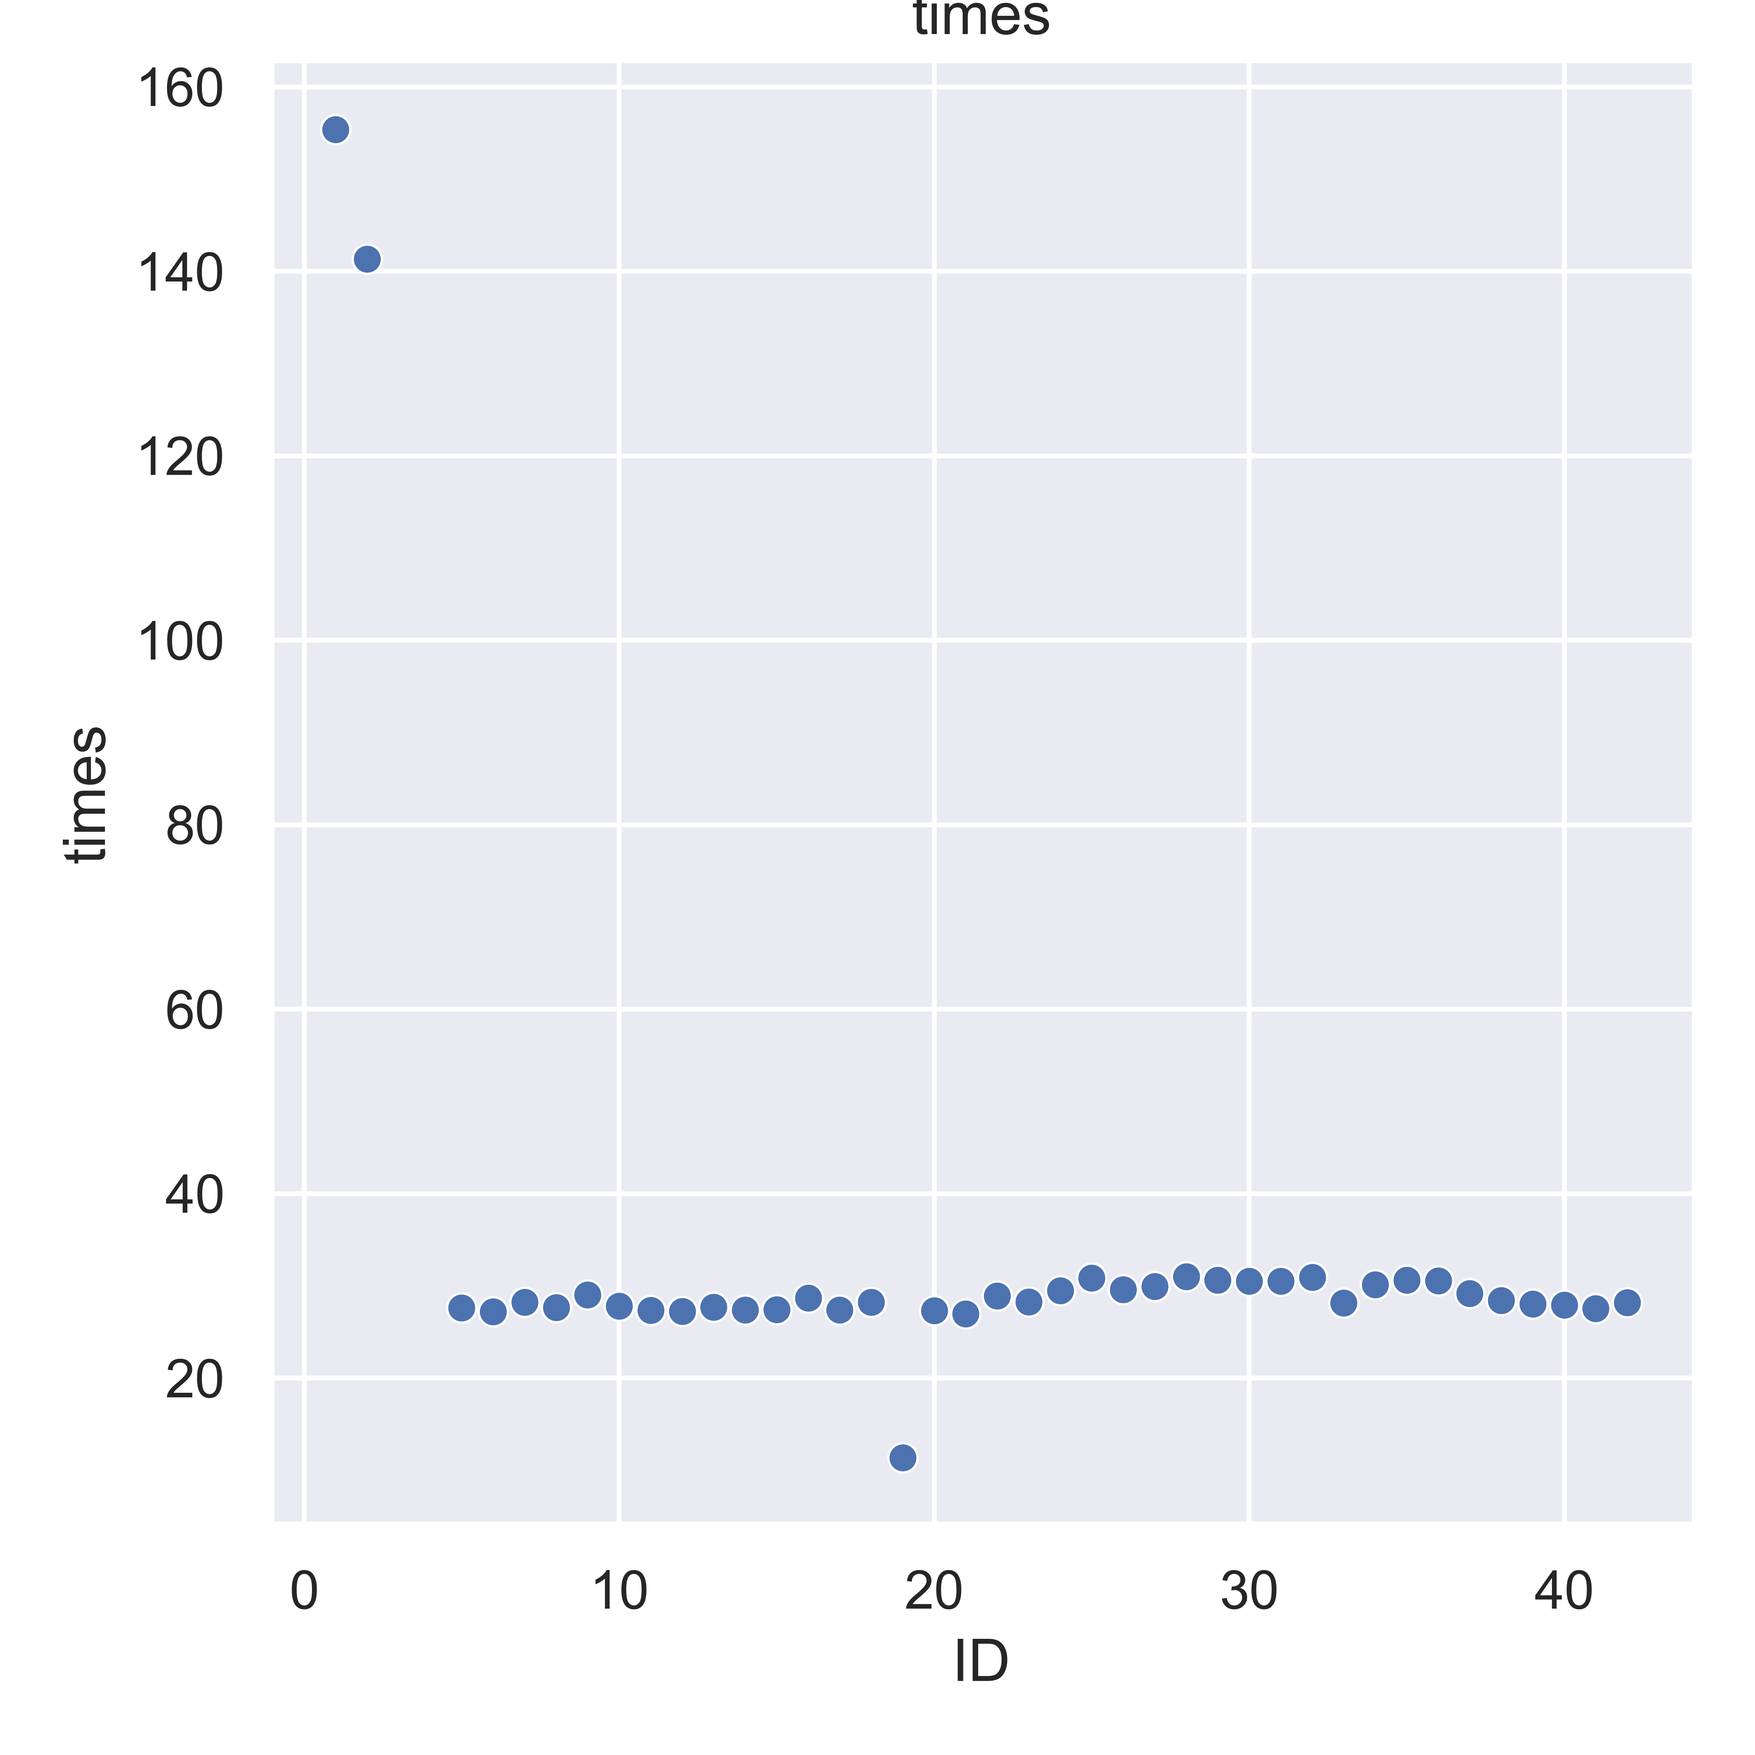
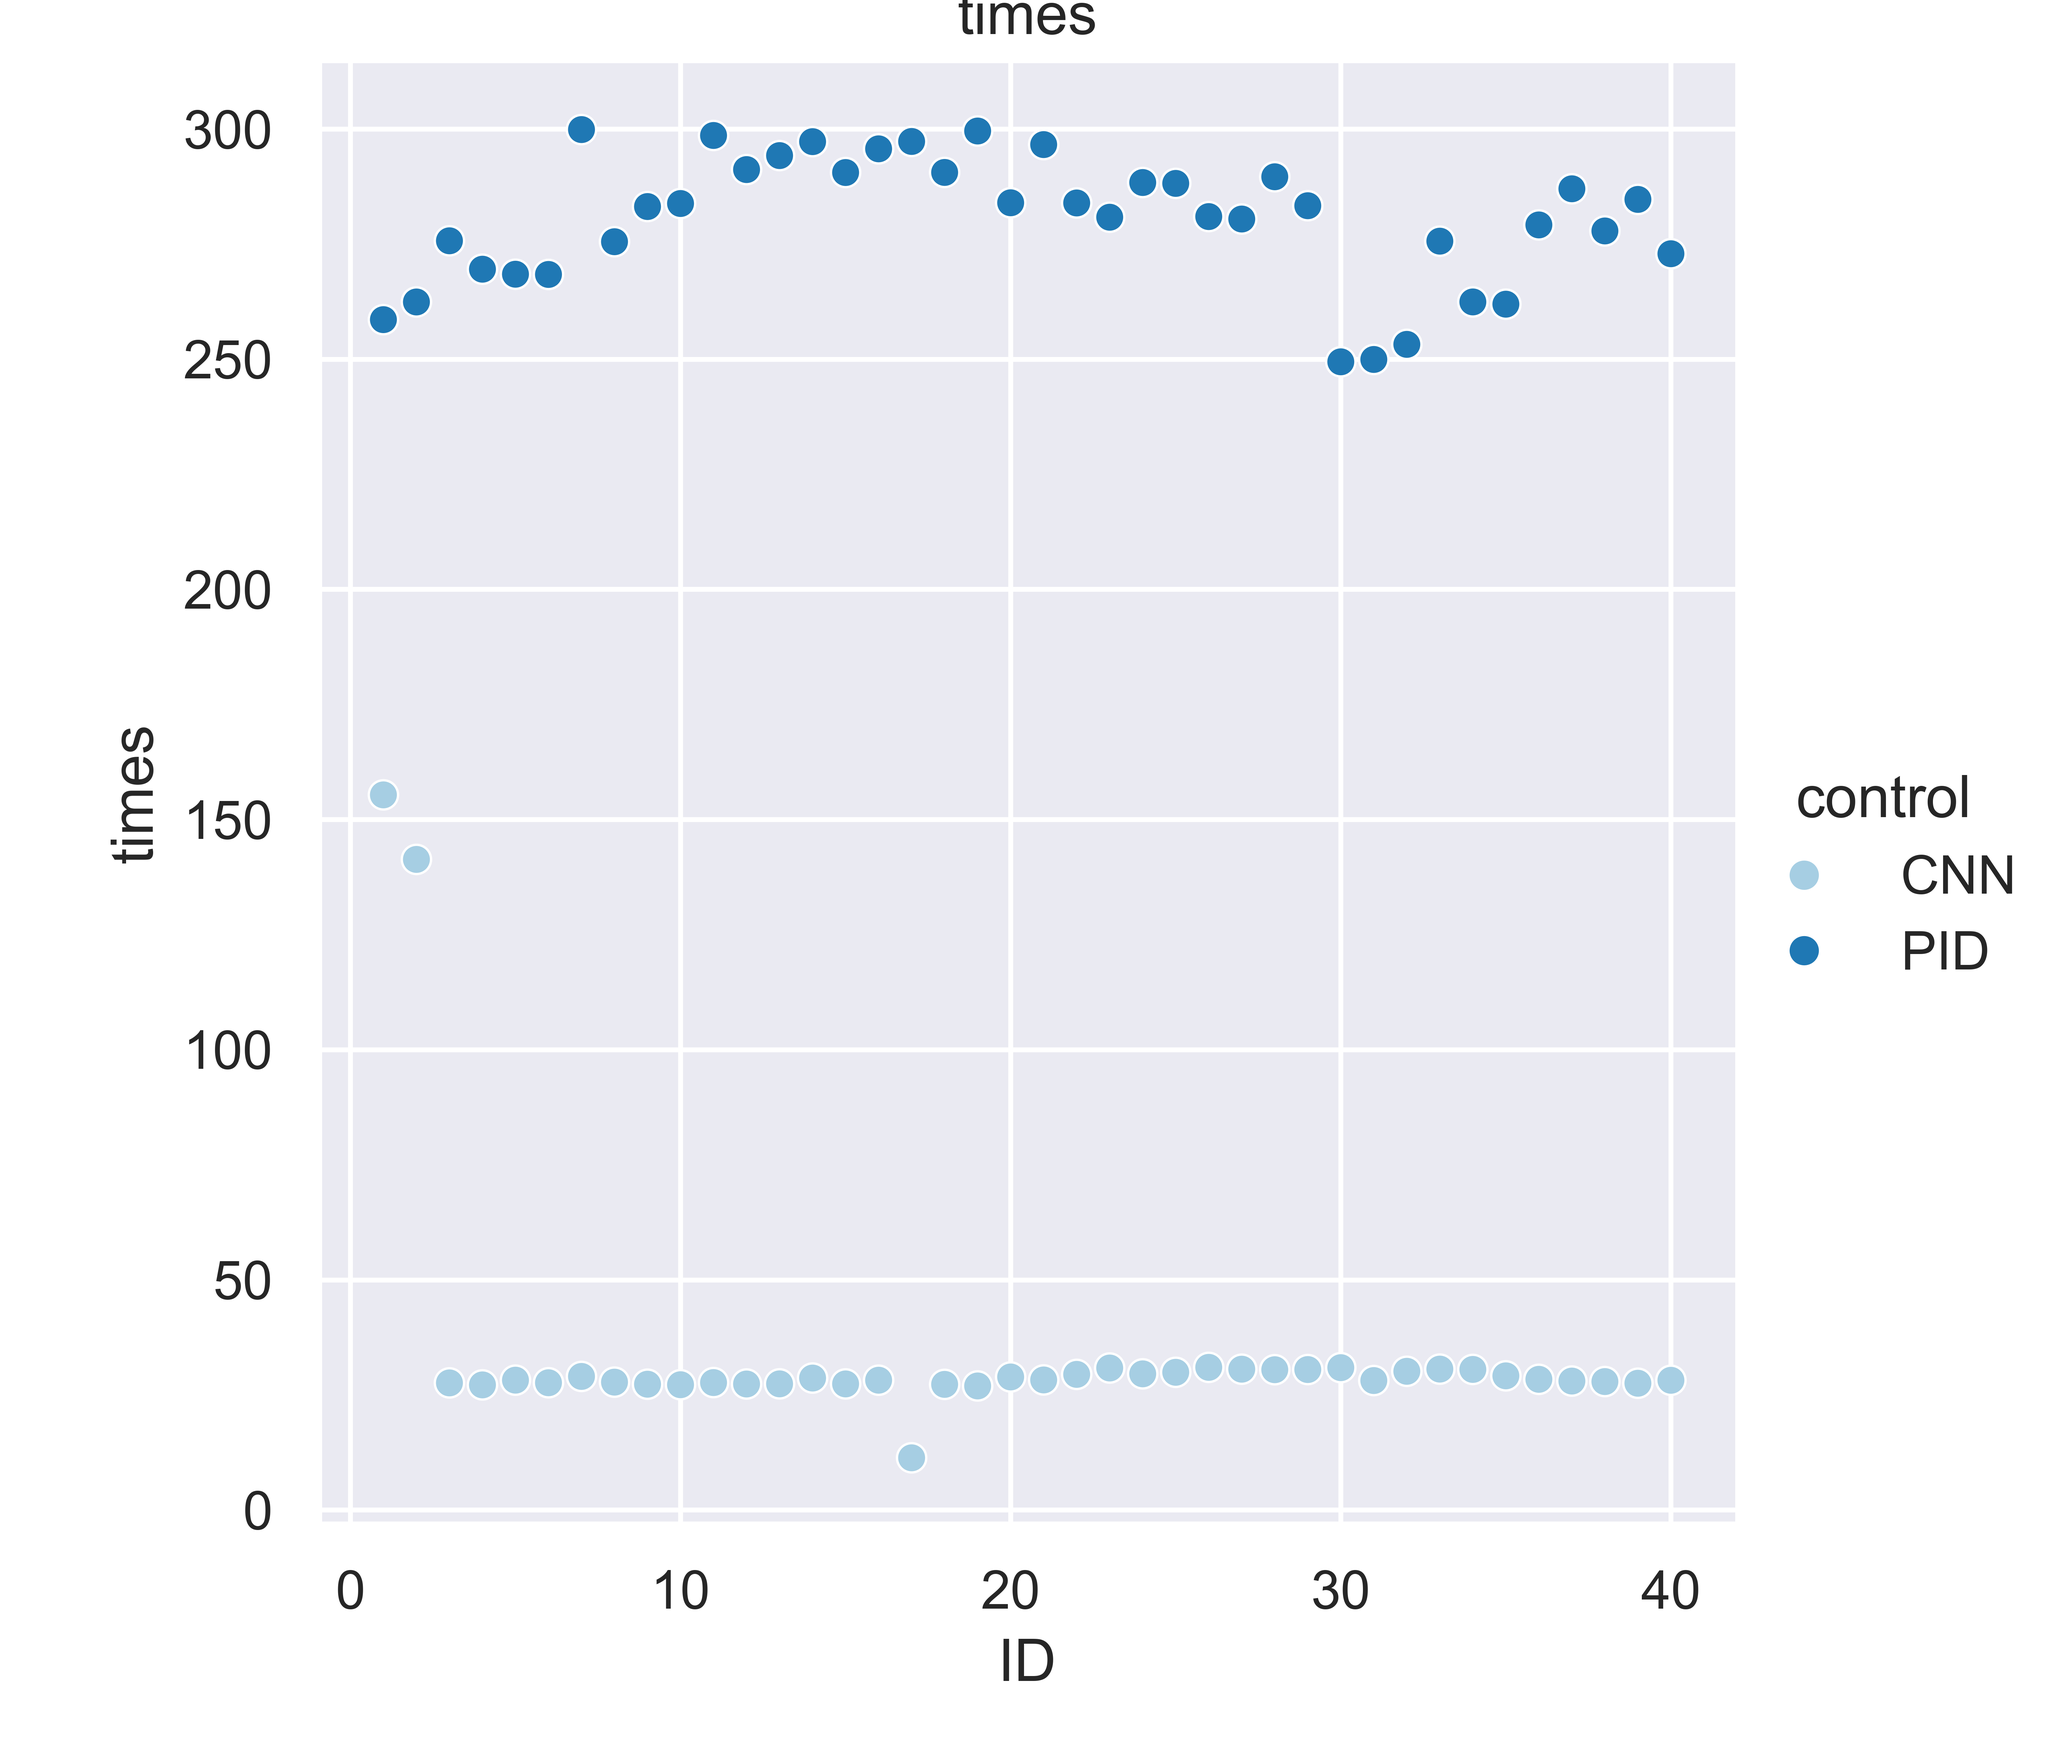
pid times v3

diff --git a/extract.py b/extract.py
@@ -39,7 +39,7 @@ class SqlQueryE:
 class PlottingData:
     def __init__(self):
         self.table_times = pd.read_csv('times.csv')
-        self.table = pd.read_csv('C:/Users/grego/Downloads/GitHub/hw.CSV')
+        # self.table = pd.read_csv('C:/Users/grego/Downloads/GitHub/hw.CSV')
         # print(self.table)
         sns.set_theme(style="darkgrid")
 
@@ -64,11 +64,11 @@ class PlottingData:
             data=self.table_times,
             x="ID", y='times',
             palette="Paired",
-            # hue="Iteration",
+            hue="control",
             # kind="line",
             # units="Iteration", estimator=None
-            # markers=True,
-            # dashes=False
+            markers=True,
+            dashes=False
         )
         title = 'times'
         plt.title(title)
@@ -77,8 +77,8 @@ class PlottingData:
         plt.show()
 
 
-query_e = SqlQueryE()
-query_e.save_query()
+# query_e = SqlQueryE()
+# query_e.save_query()
 plot = PlottingData()
 # plot.plot_table("Physical Memory Load [%]", "Physical Memory Load over Time")
 # plot.plot_table("CPU Package Power [W]", "CPU Package Power over Time")
